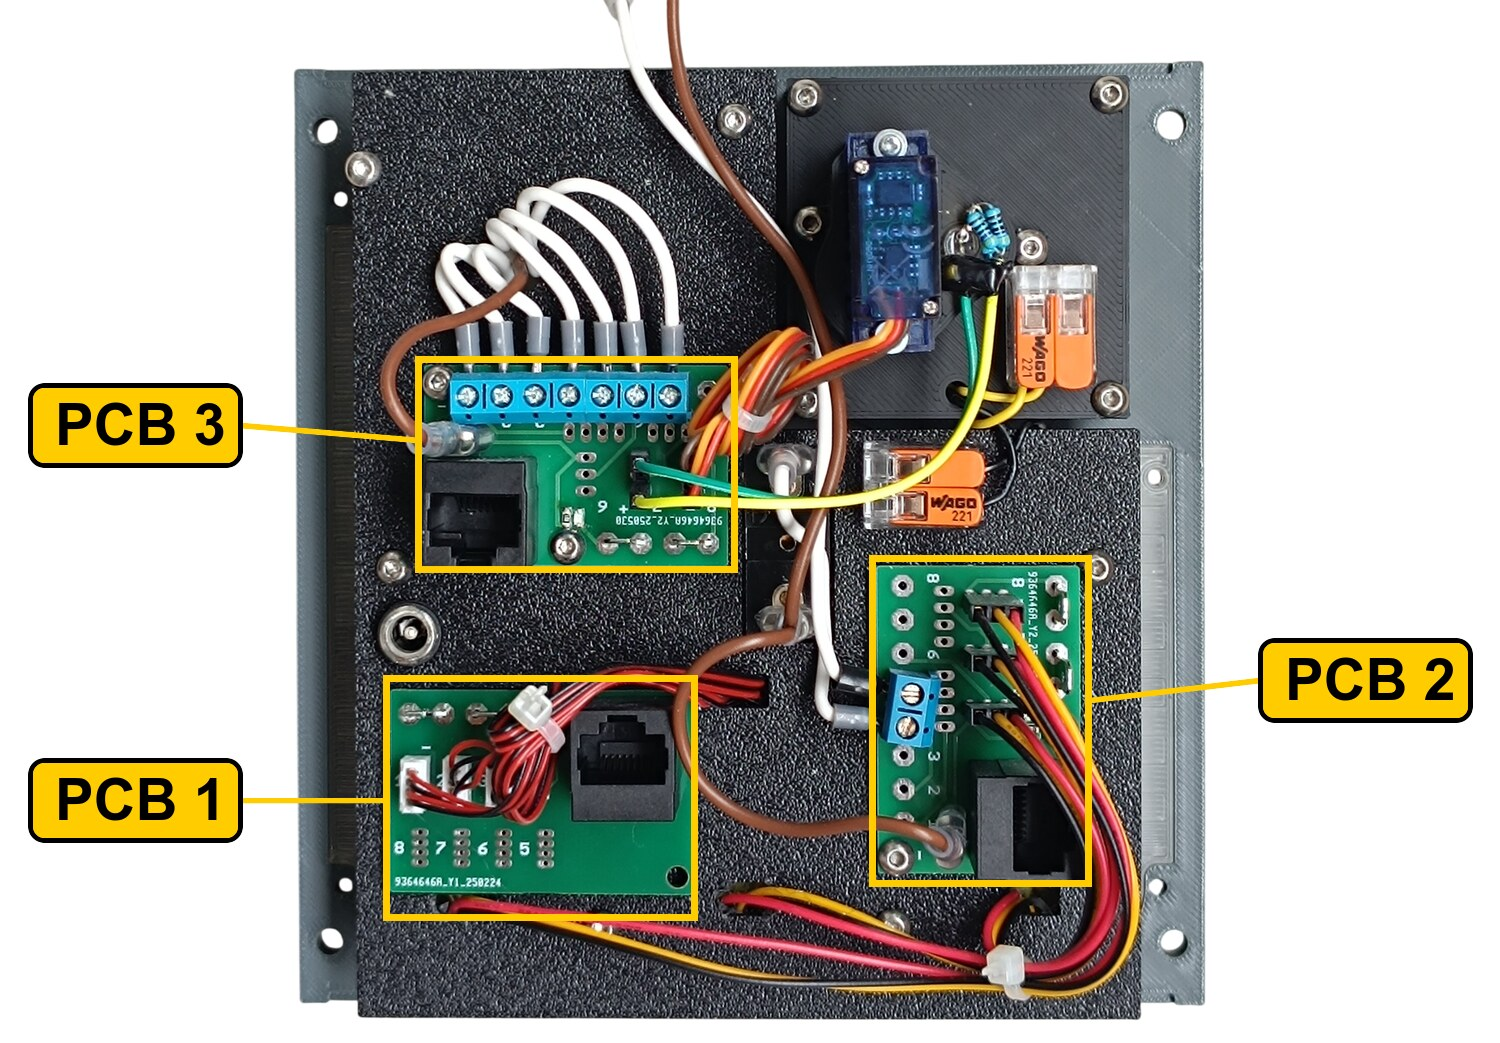
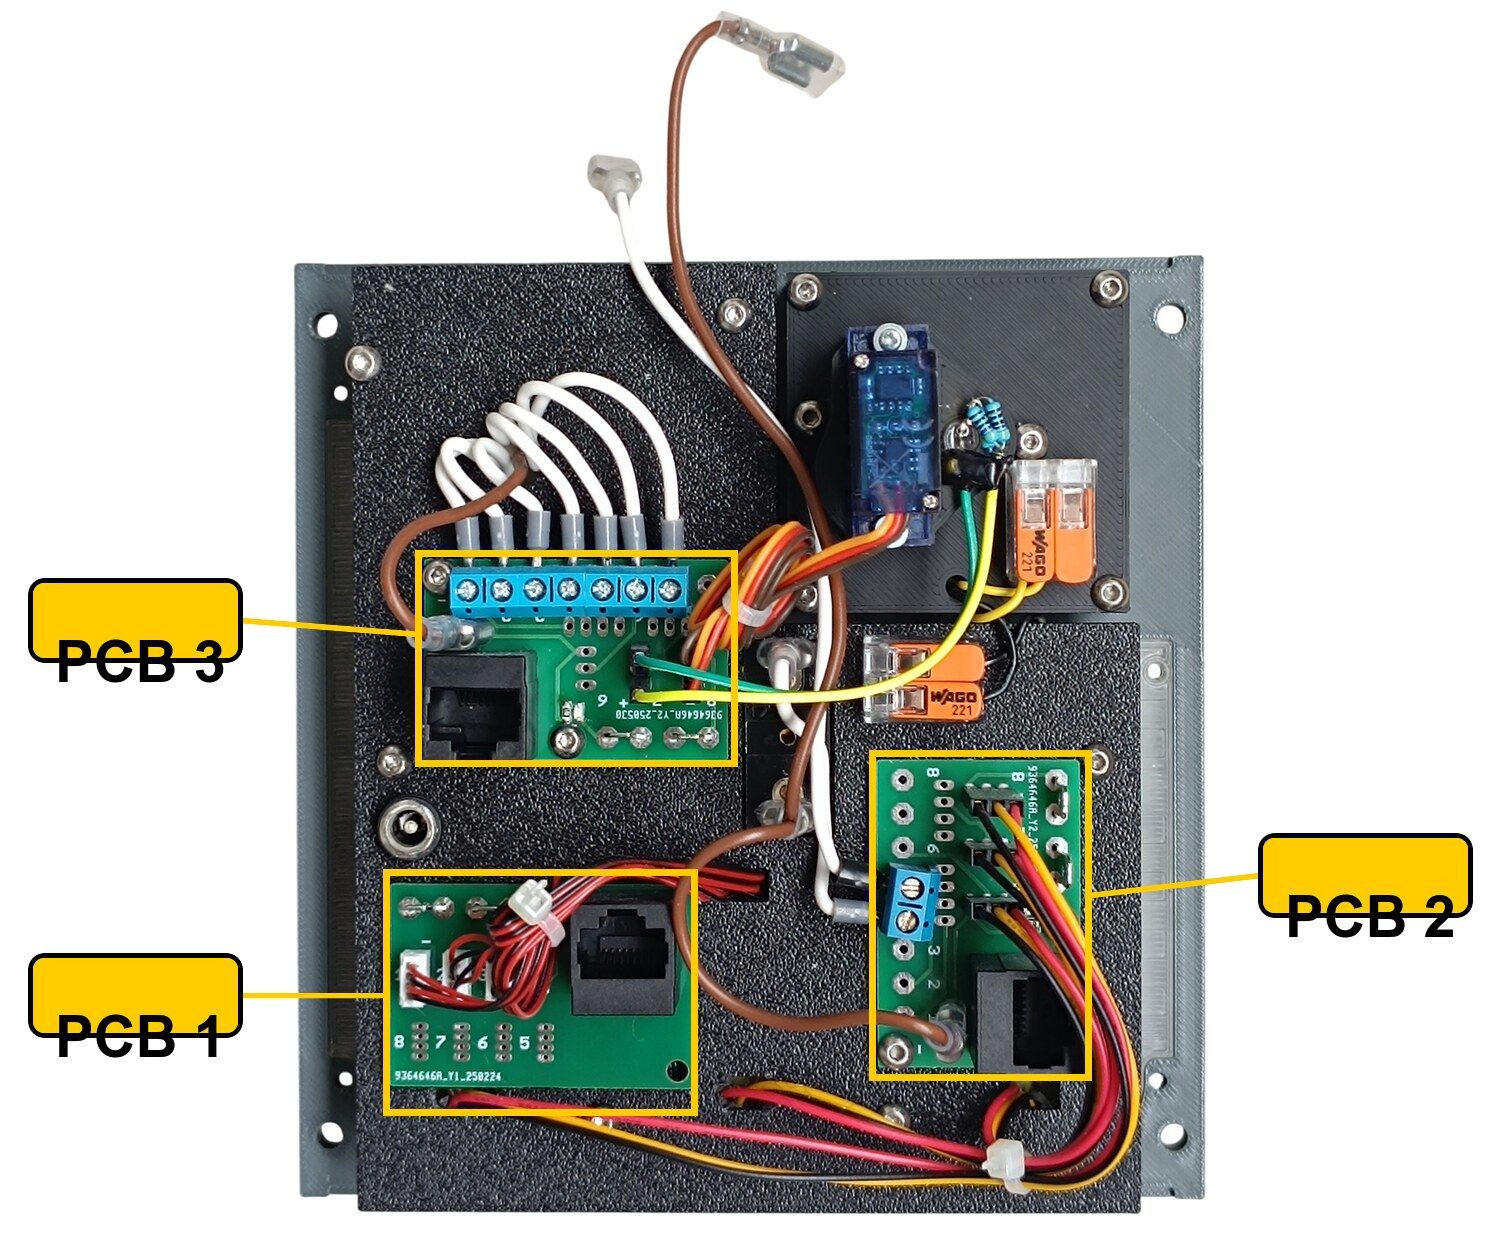
docs: corrections to the Air Conditioning Control Panel page
Screw table back to the MakerWorld BOM, re-exported step 1 diagram
without the guard, AliExpress references for the potentiometer and the
Dupont lead, and the wiring photo no longer crops off the pair of wires
that runs to the Voice Recorder Switch.

Claude-Session: https://claude.ai/code/session_01FZdkdTVTC1a23CGJtYxUdJ

diff --git a/docs/models/24-air-conditioning-control-panel.md b/docs/models/24-air-conditioning-control-panel.md
@@ -59,13 +59,14 @@
 
 ## Switches and Buttons
 
-| Qty | Type |
-|---:|---|
-| 1× | KN3(C)-101 or KN3(C)-102, ON/OFF |
-| 1× | Rotary switch SR16, 8 positions |
-| 3× | Potentiometer 10 kΩ |
+| Qty | Type | Reference |
+|---:|---|---|
+| 1× | KN3(C)-101 or KN3(C)-102, ON/OFF | |
+| 1× | Rotary switch SR16, 8 positions | |
+| 3× | **Potentiometer 10 kΩ** - WH148, 3-pin, 20 mm shank | [Product I used](../../images/parts/AE_potentiometer.png) |
+| 3× | **Dupont lead** - 3-pin female, 2.54 mm | [Product I used](../../images/parts/AE_dupont.png) |
 
-The toggle switch is TRIM AIR. The rotary switch is the AIR TEMP source selector, and seven of its eight positions are used. The three potentiometers are the CONT CAB, FWD CAB and AFT CAB temperature knobs; each one is wired with a 3-pin female Dupont lead.
+The toggle switch is TRIM AIR. The rotary switch is the AIR TEMP source selector, and seven of its eight positions are used. The three potentiometers are the CONT CAB, FWD CAB and AFT CAB temperature knobs, and each one is wired with one of the Dupont leads.
 
 ---
 
@@ -103,10 +104,10 @@ The needle to fit is **hand-temp_white + hand-temp_black**, and the scale is the
 | Qty | Screw | Joins |
 |---:|---|---|
 | 2× | Flat head M3×6 | bottom + diffuser |
-| 4× | Flat head M3×12 | bottom + standoff |
+| 2× | Flat head M3×12 | bottom + standoff |
 | 4× | Flat head M4×16 | bottom + main frame |
 | 6× | Dome head M3×5 | PCB + backlight |
-| 13× | Dome head M3×8 | top + bottom, top + diffuser, bottom + standoff, backlight + standoff |
+| 15× | Dome head M3×8 | top + bottom, top + diffuser, diffuser + standoff, backlight + standoff |
 | 2× | Dome head M3×12 | bottom + gauge |
 
 The four M4×16 screws each take one of the printed M4 washers.
@@ -166,7 +167,7 @@ The socket labels **D0–D6**, **A1** and **A2** are silkscreened on the hub shi
 
 <img src="../../images/panels/24-air-conditioning-wiring-pcbs.jpg" alt="Rear of the panel with the three PCBs marked" width="700">
 
-The rear of the panel. **PCB 1** is the board with the small white connectors and the red-and-black cables running off to the annunciators. **PCB 2** and **PCB 3** both take screw terminals: eight of them on **PCB 3**, holding the white wires of the AIR TEMP selector, and a single two-way one on **PCB 2**, whose three-pin headers carry the temperature potentiometers.
+The rear of the panel. **PCB 1** is the board with the small white connectors and the red-and-black cables running off to the annunciators. **PCB 2** and **PCB 3** both take screw terminals: seven of them on **PCB 3**, holding the white wires of the AIR TEMP selector, and a single two-way one on **PCB 2**, whose three-pin headers carry the temperature potentiometers. The eighth position on **PCB 3** has no screw terminal fitted - it is the gauge servo connection, which goes on the pin headers instead. The white and brown wire leaving the top of the panel are the pair that feeds the [Voice Recorder Switch](12-voice-recorder-switch.md).
 
 ### PCB 1 - socket A1 on Overhead_5
 
@@ -205,7 +206,7 @@ Pin 5 does not belong to this panel. It carries the toggle switch of the [Voice 
 | 7 | AIR TEMP - SUPPLY DUCT FWD |
 | 8 | TEMP gauge - servo signal |
 
-The gauge takes four more connections that do not go through a screw terminal, all of them from the pin headers of PCB 3: the servo's **+5 V** and **GND**, and the **+5 V** and **GND** of the needle LED. Its scale backlight runs on 12 V from this panel's own backlighting, through the lever-type splice connectors beside the servo. The servo plug has to be rewired before it will work - see [Temperature and Climb Gauges](21-temperature-and-climb-gauges.md#wiring).
+None of the gauge connections go through a screw terminal. The servo signal on pin 8, the servo's **+5 V** and **GND** and the **+5 V** and **GND** of the needle LED all sit on the pin headers of PCB 3. Its scale backlight runs on 12 V from this panel's own backlighting, through the lever-type splice connectors beside the servo. The servo plug has to be rewired before it will work - see [Temperature and Climb Gauges](21-temperature-and-climb-gauges.md#wiring).
 
 Each potentiometer takes its **+5 V** and **GND** from the pin headers of PCB 2 as well, so its 3-pin Dupont lead plugs straight onto the board.
 
@@ -230,9 +231,7 @@ Screw abbreviations used in the diagrams: **FH** = flat head, **DH** = dome head
 
 ### 1. Bottom panel - diffuser, gauge, annunciators, switches and potentiometers
 
-<img src="../../images/panels/24-air-conditioning-01-bottom-panel-components.png" alt="Bottom panel with the diffuser, gauge, bezel, annunciators, switches, potentiometers and standoffs" width="700">
-
-The four M4×16 screws in this drawing are the ones that later hold the finished panel on the main frame.
+<img src="../../images/panels/24-air-conditioning-01-bottom-panel-parts.png" alt="Bottom panel with the diffuser, gauge, bezel, annunciators, switches, potentiometers and standoffs" width="700">
 
 ### 2. Backlight panel - LED strips
 
